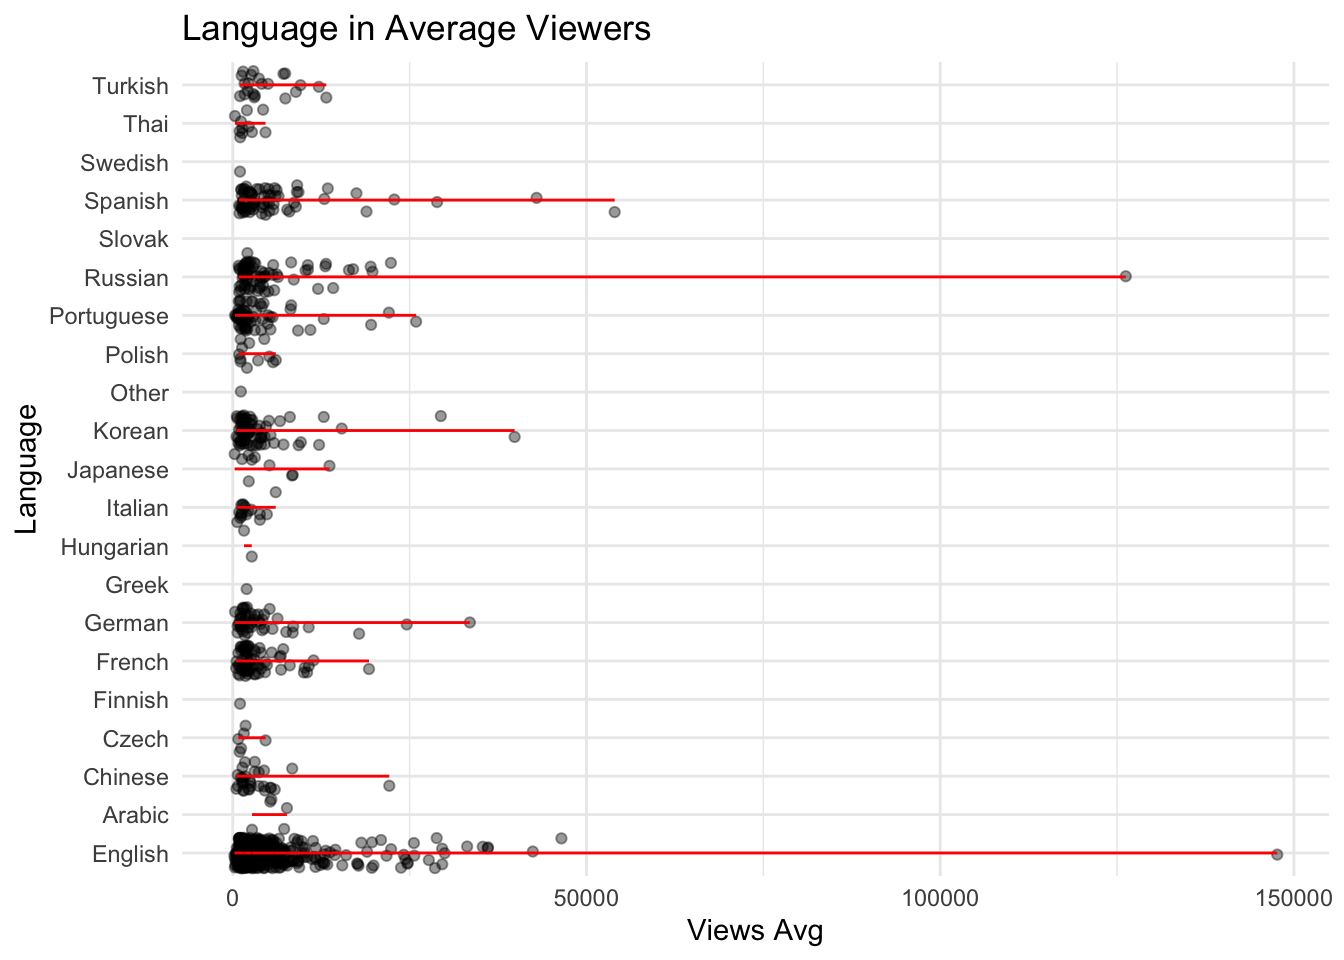
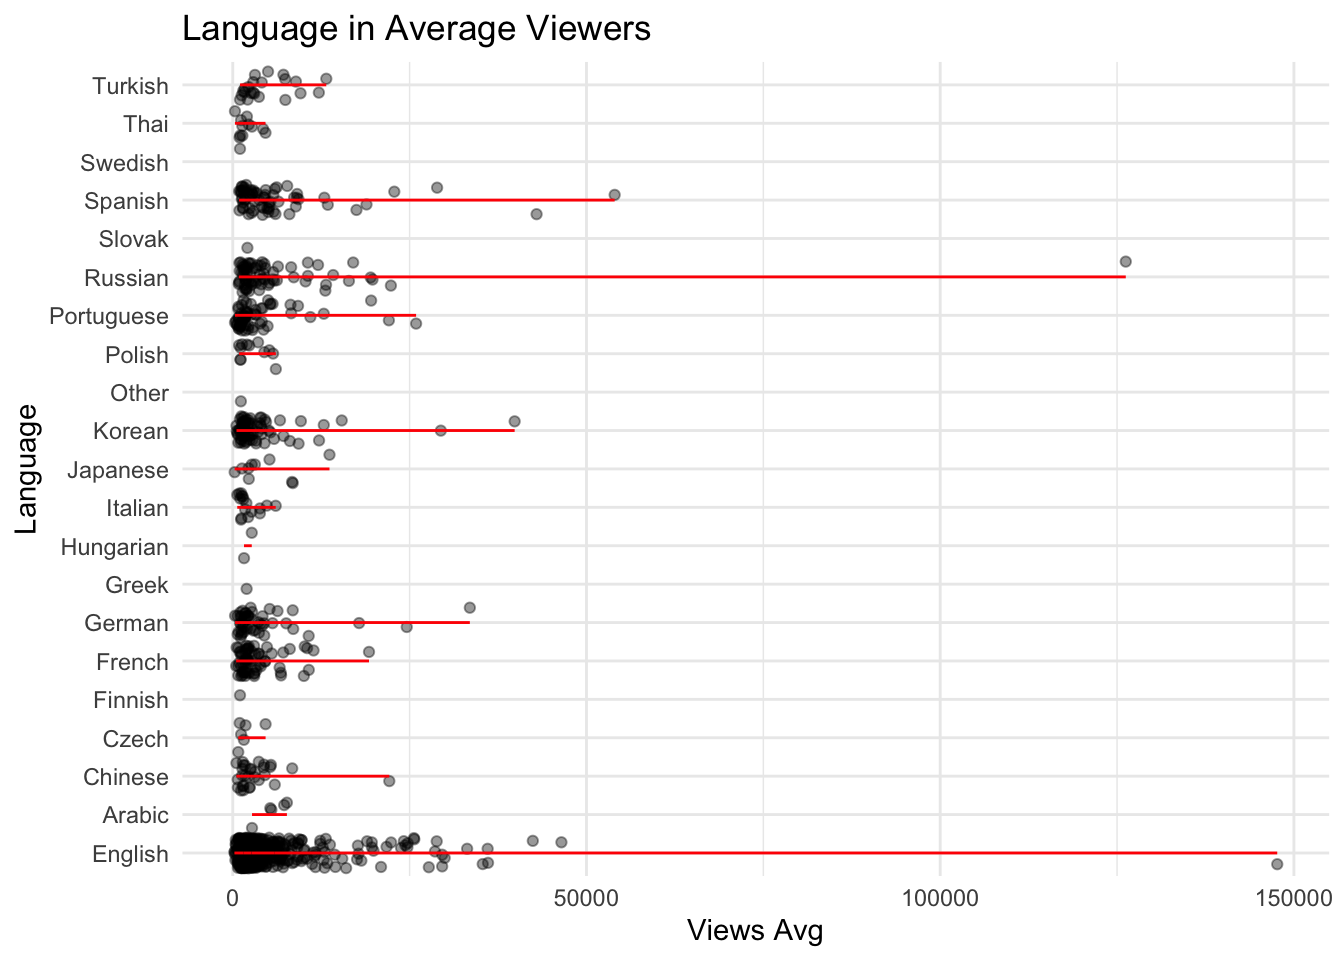
6

diff --git a/MD_HW5.html b/MD_HW5.html
@@ -158,13 +158,13 @@ Attaching package: 'janitor'</code></pre>
 <span id="cb10-3"><a href="#cb10-3" aria-hidden="true" tabindex="-1"></a>  <span class="fu">sample_n</span>(<span class="at">size =</span> <span class="dv">5</span>) </span></code><button title="Copy to Clipboard" class="code-copy-button"><i class="bi"></i></button></pre></div>
 <div class="cell-output cell-output-stdout">
 <pre><code># A tibble: 5 × 3
-  channel      average_viewers followers
-  &lt;chr&gt;                  &lt;dbl&gt;     &lt;dbl&gt;
-1 TommyKayLIVE            1124    127770
-2 LITkillah               9104    601927
-3 kyo1984123              1516    135687
-4 TpaBoMaH                1531    151266
-5 EFEUYGAC                3700    358498</code></pre>
+  channel       average_viewers followers
+  &lt;chr&gt;                   &lt;dbl&gt;     &lt;dbl&gt;
+1 Asmongold               42414   1563438
+2 UNLOSTV                 12171   1585519
+3 LightFuryLF              1169     51589
+4 RocketBeansTV             696    416018
+5 Monstercat                313    788684</code></pre>
 </div>
 </div>
 <p>What do you notice?</p>
@@ -184,11 +184,11 @@ dplyr 1.1.0.
 <pre><code># A tibble: 5 × 2
   average_viewers followers
             &lt;dbl&gt;     &lt;dbl&gt;
-1            6210   1093212
-2            1559    206794
-3            1072     58531
-4            2452    775987
-5             918    125775</code></pre>
+1            1891   1866339
+2             402    630255
+3            4147    576903
+4            2410    259338
+5            2764    915023</code></pre>
 </div>
 </div>
 <p>Describe the results in a few words. Does anything capture your attention?</p>
@@ -354,6 +354,27 @@ $ .std.resid    &lt;dbl&gt; 1.3420109, 0.8227954, 0.5389316, -0.6251793, 0.59536
 <section id="question-6" class="level2">
 <h2 class="anchored" data-anchor-id="question-6">Question 6</h2>
 <p>Explore the residuals here using a similar plot as above. There are a couple of points our model really missed - which ones were they?</p>
+<div class="cell">
+<div class="sourceCode cell-code" id="cb30"><pre class="sourceCode r code-with-copy"><code class="sourceCode r"><span id="cb30-1"><a href="#cb30-1" aria-hidden="true" tabindex="-1"></a>twitch_data <span class="sc">|&gt;</span> </span>
+<span id="cb30-2"><a href="#cb30-2" aria-hidden="true" tabindex="-1"></a>  <span class="fu">ggplot</span>(<span class="fu">aes</span>(<span class="at">x =</span> average_viewers, <span class="at">y =</span> language)) <span class="sc">+</span></span>
+<span id="cb30-3"><a href="#cb30-3" aria-hidden="true" tabindex="-1"></a><span class="fu">geom_jitter</span>(<span class="at">alpha =</span> <span class="fl">0.2</span>) <span class="sc">+</span> </span>
+<span id="cb30-4"><a href="#cb30-4" aria-hidden="true" tabindex="-1"></a><span class="fu">geom_smooth</span>(<span class="at">method =</span> lm) <span class="sc">+</span> </span>
+<span id="cb30-5"><a href="#cb30-5" aria-hidden="true" tabindex="-1"></a><span class="fu">scale_x_log10</span>() </span></code><button title="Copy to Clipboard" class="code-copy-button"><i class="bi"></i></button></pre></div>
+<div class="cell-output cell-output-stderr">
+<pre><code>`geom_smooth()` using formula = 'y ~ x'</code></pre>
+</div>
+<div class="cell-output cell-output-stderr">
+<pre><code>Warning in qt((1 - level)/2, df): NaNs produced</code></pre>
+</div>
+<div class="cell-output cell-output-stderr">
+<pre><code>Warning in max(ids, na.rm = TRUE): no non-missing arguments to max; returning
+-Inf</code></pre>
+</div>
+<div class="cell-output-display">
+<p><img src="MD_HW5_files/figure-html/unnamed-chunk-17-1.png" class="img-fluid" width="672"></p>
+</div>
+</div>
+<p>There are a couple of points our model really missed - which ones were they?</p>
 </section>
 
 </main>
